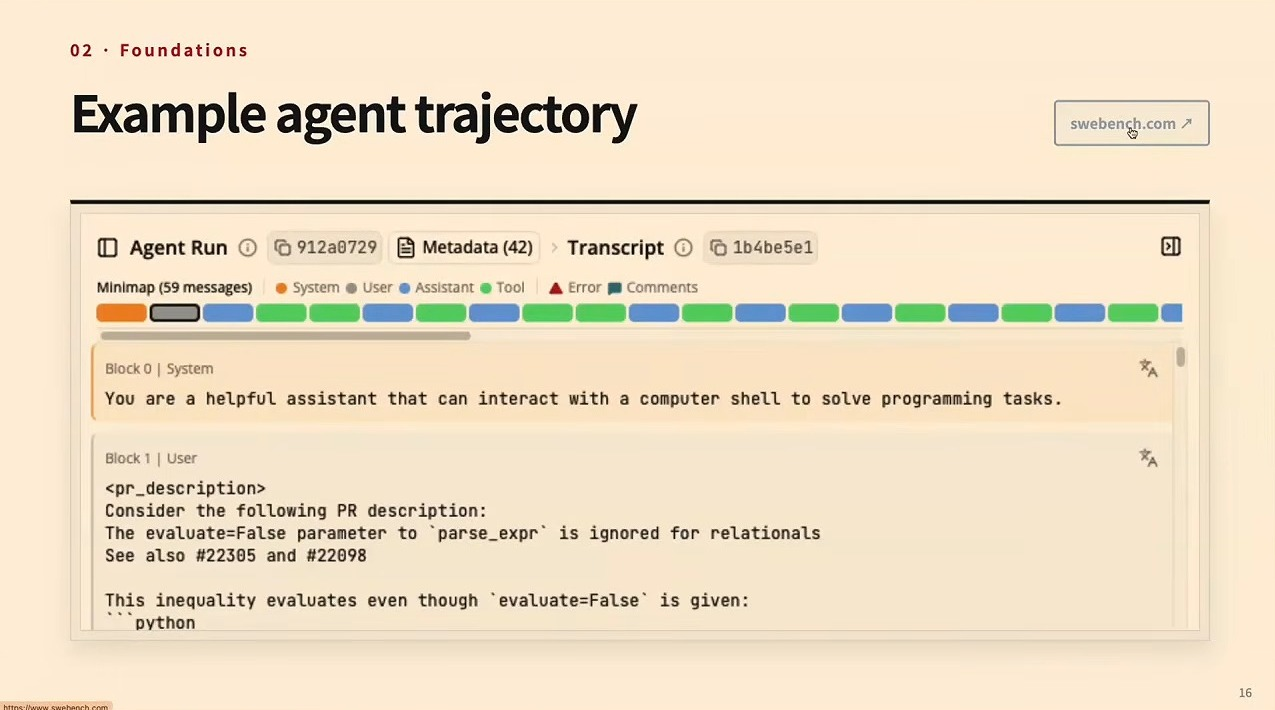
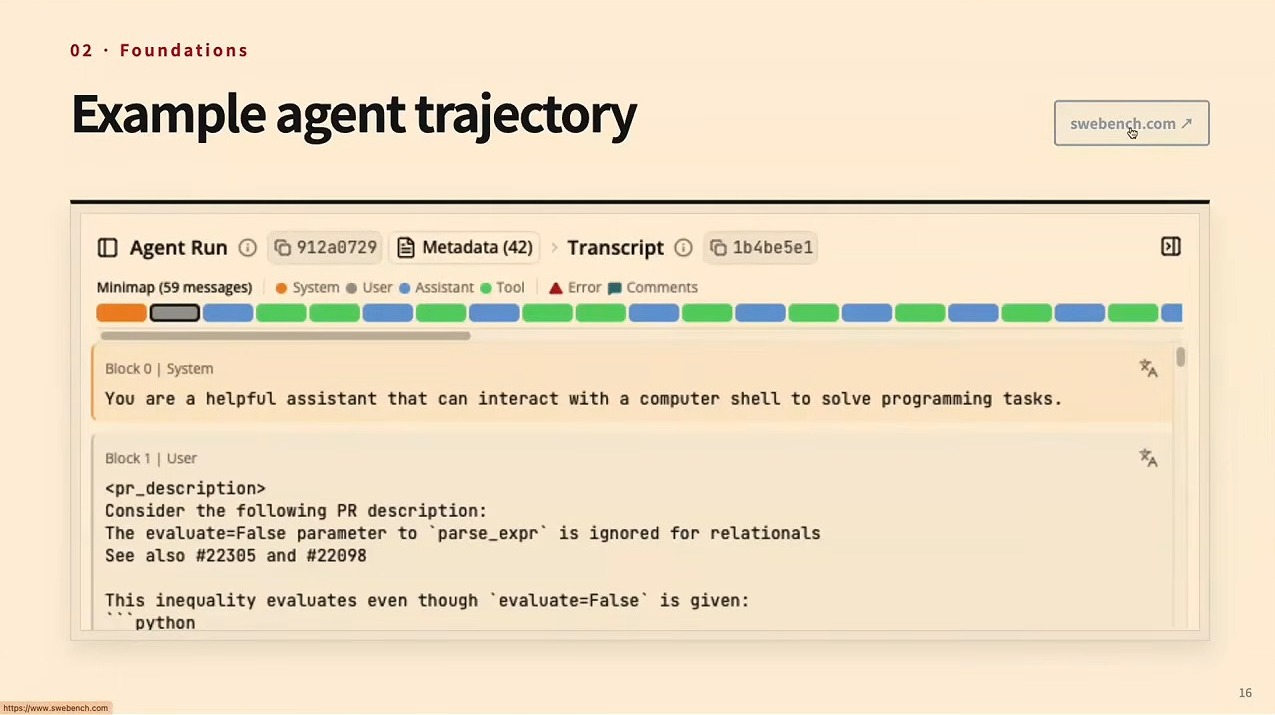
fix(content): keep the tooltip at the bottom of CMU L1 fig_14
An independent check of all 221 crops found that fig_14 lost the lowest
3 pixel rows of a link tooltip in the screen recording, because the
5 px inset also applied to the slide panel's bottom edge. The figure now
keeps rows 835-839 (1275x715); the other 220 crops were confirmed intact.
The CMU L1 PDF (37 pages) and its web_source pin are rebuilt.

Claude-Session: https://claude.ai/code/session_01JQ4FFMGRgDsx18UcGmE96M

diff --git a/content/courses/cmu-ai-agents/source/lecture01/README.md b/content/courses/cmu-ai-agents/source/lecture01/README.md
@@ -5,5 +5,5 @@
 - 源视频：https://www.youtube.com/watch?v=UwfjzyLnvMg （Graham Neubig / Daniel Fried，68 分钟）
 - 发布版 PDF：课程根目录 `cmu_aiagents_2026_01_what_are_agents_zh.pdf`（37 页）
 - 生成方式：官方自动字幕（去重后 1614 条，覆盖率 1.0）+ 1/15s 密集抽帧 + 33 张时间可溯源配图
-- 配图版面（v1.0.1）：原视频把课件和摄像头拼在同一画面里。`layout.json` 由 `frame_filter.py layout` 在 1/15s 密集帧上测得课件区 `[0,120,1280,840]`；33 张配图都只保留课件区（向内收 5 px），`figure_manifest.tsv` 的 `panel` 列记为 `main`。
+- 配图版面（v1.0.1）：原视频把课件和摄像头拼在同一画面里。`layout.json` 由 `frame_filter.py layout` 在 1/15s 密集帧上测得课件区 `[0,120,1280,840]`；33 张配图都只保留课件区（向内收 5 px；`fig_14` 的底边不内收，保留录屏左下角浏览器的链接提示），`figure_manifest.tsv` 的 `panel` 列记为 `main`。
 - 图片、TeX 与 PDF 的版本对应关系固定在课程 `course.json` 的 `web_source` 中；改动其中任何文件都必须重新审阅并更新 profile。

diff --git a/RELEASE_NOTES.md b/RELEASE_NOTES.md
@@ -7,7 +7,8 @@ page width. Their 221 figures now keep only the slide panel that `frame_filter.p
 so at the same page width the slides print about 1.75× larger (GSE) and 1.5× larger (CMU).
 
 - Slide panels: GSE L2 `[546,0,1280,410]`, GSE L3 `[545,0,1280,410]` (crops 729–730 px wide);
-  CMU L1–L4 `[0,120,1280,840]` (crops 1275×710). Each lecture directory now keeps its
+  CMU L1–L4 `[0,120,1280,840]` (crops 1275×710; CMU L1 `fig_14` keeps its bottom 5 px, 1275×715, so a
+  link tooltip in the screen recording stays whole). Each lecture directory now keeps its
   `layout.json`, and `figure_manifest.tsv` records the kept panel in a new `panel` column.
 - Board writing: two figures also show the blackboard at the same moment, where the notes explain
   what was drawn — GSE L2 figure 23 (arcs from the user turn back over the earlier context) and
